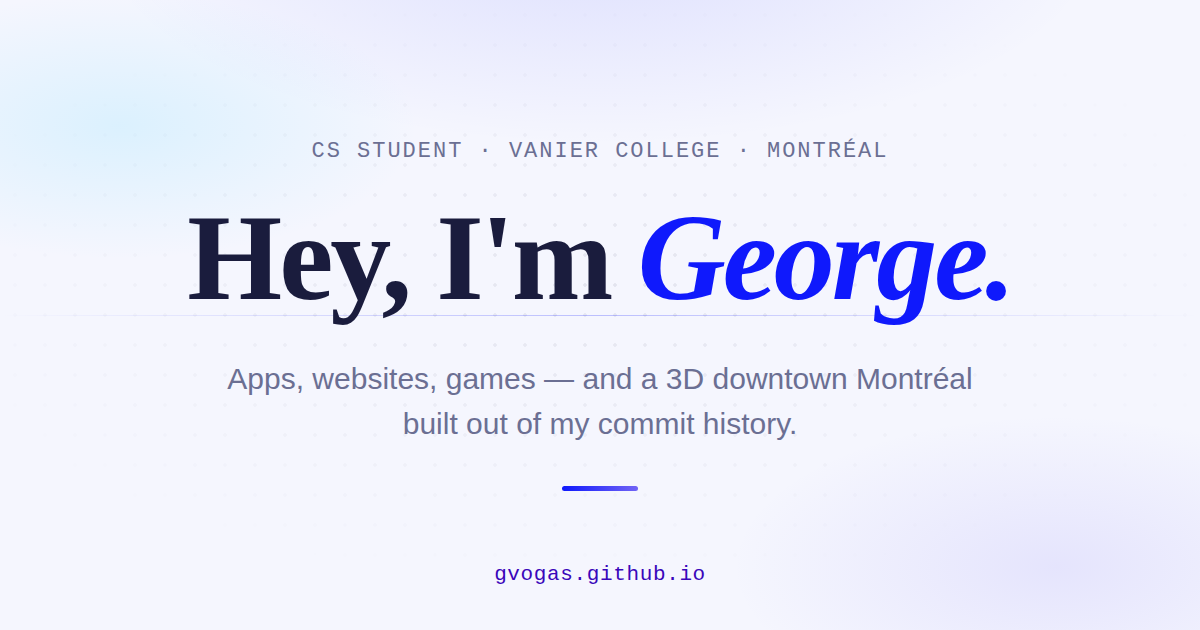
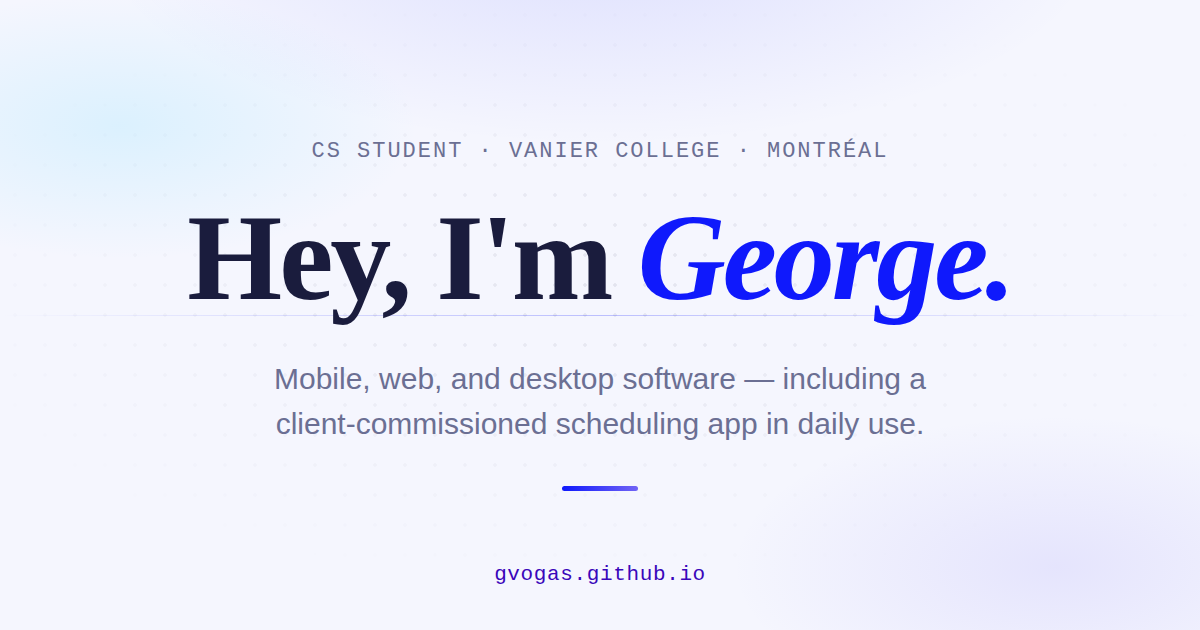
Adjust copy to a professional tone
Keep the plain first-person voice but remove the jokey asides; project
descriptions, the about section, and the share card now read factual
and career-appropriate.

Claude-Session: https://claude.ai/code/session_01LQZPvP3TcEDBEUJSvKnrY1

Changed region(s): [[0.185, 0.573, 0.8017, 0.6333], [0.2158, 0.6635, 0.7708, 0.6937]]

diff --git a/index.html b/index.html
@@ -4,7 +4,7 @@
   <meta charset="UTF-8" />
   <meta name="viewport" content="width=device-width, initial-scale=1.0, viewport-fit=cover" />
   <title>George Vogas — CS Student · Robotics & Hockey</title>
-  <meta name="description" content="Portfolio of George Vogas, a CS student at Vanier College in Montréal. Mobile apps, web platforms, desktop software, games — and a 3D commit skyline." />
+  <meta name="description" content="Portfolio of George Vogas, a CS student at Vanier College in Montréal — mobile apps, web platforms, desktop software, and games." />
   <link rel="canonical" href="https://gvogas.github.io/" />
   <link rel="icon" href="favicon.svg" type="image/svg+xml" />
   <link rel="apple-touch-icon" href="apple-touch-icon.png" />
@@ -16,7 +16,7 @@
   <meta property="og:url" content="https://gvogas.github.io/" />
   <meta property="og:site_name" content="George Vogas" />
   <meta property="og:title" content="George Vogas — CS Student · Robotics & Hockey" />
-  <meta property="og:description" content="Portfolio of George Vogas, a CS student at Vanier College in Montréal. Apps, websites, games — and a 3D Montréal skyline built from his repos." />
+  <meta property="og:description" content="Portfolio of George Vogas, a CS student at Vanier College in Montréal — mobile apps, web platforms, desktop software, and games." />
   <meta property="og:image" content="https://gvogas.github.io/assets/og-card.png" />
   <meta property="og:image:width" content="1200" />
   <meta property="og:image:height" content="630" />
@@ -117,8 +117,8 @@
         <p class="hero__eyebrow">CS Student · Vanier College · Montréal, QC</p>
         <h1 class="hero__name">Hey, I'm <span class="hero__name-accent">George.</span></h1>
         <p class="hero__tagline">
-          I like building things people actually use, like the scheduling app a client runs their business on.<br />
-          Also things nobody asked for, like the 3D commit skyline further down this page.
+          I build mobile, web, and desktop software, including a<br />
+          client-commissioned scheduling app in daily use.
         </p>
         <div class="hero__stats" id="github-stats-grid" aria-label="Live GitHub stats">
           <span data-stat="commits"><strong class="github-stats__value"><span class="github-stats__shimmer" aria-hidden="true">000</span></strong> Commits</span>
@@ -159,28 +159,27 @@
         <div class="about__grid">
           <div class="about__text reveal">
             <p>
-              I'm a CS student at Vanier College in Montréal. Most of what I know comes from
-              taking on projects slightly too big for me: a scheduling app a client uses every day,
-              a ticketing site my team deployed, a desktop POS system, a Unity game.
+              I'm a CS student at Vanier College in Montréal. I've learned primarily by building:
+              a scheduling app a client uses every day, a ticketing site my team deployed,
+              a desktop POS system, and a Unity game I contribute to.
             </p>
             <p>
-              Lately I've been spending my spare time on <strong>robotics</strong> — microcontrollers,
-              PID loops, and sensors that lie to you. The scheduling app is getting invoicing next,
-              so that's most of my evenings spoken for.
+              Outside of coursework I work on <strong>robotics</strong> — microcontrollers,
+              PID control loops, and sensor integration. I'm also extending the scheduling app
+              with Wave invoicing.
             </p>
             <p>
-              The rest of them go to <strong>hockey</strong>. I skate on weekends, watch the Habs,
-              and keep telling myself I'll build a shot-quality model instead of just arguing about
-              line combinations.
+              Away from the keyboard, I play <strong>hockey</strong> on weekends and follow the Habs.
+              I'm interested in hockey analytics — box scores, possession metrics, shot quality.
             </p>
           </div>
           <div class="about__callout reveal">
             <p class="about__callout-label">Right now</p>
             <ul class="about__callout-list">
-              <li>Finishing up at Vanier</li>
+              <li>Completing my studies at Vanier College</li>
               <li>Adding Wave invoicing to the scheduling app</li>
-              <li>Messing with microcontrollers and PID loops</li>
-              <li>Hoping the Habs make the playoffs</li>
+              <li>Working with microcontrollers and PID control</li>
+              <li>Open to internship opportunities</li>
             </ul>
           </div>
         </div>
@@ -302,7 +301,7 @@
               <span class="pill">CSS</span>
             </div>
             <p class="card__desc">
-              Hackathon project from MariHacks. Give it a topic (and your notes, if you have them) and it generates study material. There's also a plant pet that takes damage when you get questions wrong, because hackathons.
+              Hackathon project from MariHacks. Give it a topic — and optionally your notes or slides — and it generates study material, with a coin economy and a quiz-linked plant companion layered on top.
             </p>
             <ul class="card__bullets">
               <li>AI research + content agents generate structured notes, flashcards, and quiz questions at multiple difficulty levels</li>
@@ -336,7 +335,7 @@
               <span class="pill">JDK 24</span>
             </div>
             <p class="card__desc">
-              Final project for my programming patterns course: a JavaFX point-of-sale system where every pattern we covered had to actually run in the app.
+              Final project for my programming patterns course: a JavaFX point-of-sale system built around the design patterns covered in class.
             </p>
             <ul class="card__bullets">
               <li>Multi-screen JavaFX GUI: main menu, order flow, inventory management, sales analytics, and payment</li>
@@ -620,7 +619,7 @@
           <p class="contact__sub">Open to collaboration and internship opportunities</p>
           <h2 class="contact__heading">Always building something.</h2>
           <p class="contact__body">
-            If you're hiring interns, have a project in mind, or just want to argue about hockey, my LinkedIn is open.
+            If you're hiring interns or have a project in mind, the best way to reach me is LinkedIn.
           </p>
           <div class="contact__links">
             <a href="https://www.linkedin.com/in/george-vogas-b13944338/" target="_blank" rel="noopener noreferrer" class="btn btn--primary">

diff --git a/README.md b/README.md
@@ -7,14 +7,14 @@
   [![Devpost](https://img.shields.io/badge/Devpost-003E54?style=for-the-badge&logo=devpost&logoColor=white)](https://devpost.com/Terminator320)
   [![Profile Views](https://komarev.com/ghpvc/?username=gvogas&style=for-the-badge&color=0F19FC&label=PROFILE+VIEWS)](https://github.com/gvogas)
 
-  Portfolio site: **[gvogas.github.io](https://gvogas.github.io/)** (fair warning: it has a 3D downtown Montréal built out of my commit history)
+  Portfolio site: **[gvogas.github.io](https://gvogas.github.io/)** — includes an interactive 3D visualization of my repositories
 </div>
 
 ---
 
 ## About Me
 
-I'm a CS student at Vanier College in Montréal. Most of what I know comes from taking on projects slightly too big for me: a scheduling app a client uses every day, a ticketing site my team deployed, a desktop POS system, and a Unity game. Outside of class it's mostly robotics and hockey.
+I'm a CS student at Vanier College in Montréal. I've learned primarily by building: a scheduling app a client uses every day, a ticketing site my team deployed, a desktop POS system, and a Unity game I contribute to. Outside of coursework, my main interests are robotics and hockey analytics.
 
 ---
 
@@ -98,7 +98,7 @@ Event ticketing site built with two classmates. Users buy tickets for concerts, 
 <details>
 <summary>What it does</summary>
 
-Hackathon project from MariHacks. Give it a topic (and your notes, PDFs, or slides if you have them) and it generates study material. There's also a coin shop, a plant pet that takes damage when you get questions wrong, and Spotify playback, because hackathons.
+Hackathon project from MariHacks. Give it a topic — and optionally your notes, PDFs, or slides — and it generates study material, with a coin economy, a quiz-linked plant companion, and optional Spotify playback layered on top.
 
 - AI research agent (Tavily) + content agent (Groq/LLaMA 3.3) generate structured notes, 1–30 flashcards, and 1–20 multiple-choice quiz questions at beginner / intermediate / advanced difficulty
 - Personalized 1–30 day study plan with priority tagging and extra time automatically allocated to weak areas from your latest quiz
@@ -122,7 +122,7 @@ Hackathon project from MariHacks. Give it a topic (and your notes, PDFs, or slid
 <details>
 <summary>What it does</summary>
 
-Final project for my programming patterns course: a JavaFX point-of-sale system where every pattern we covered had to actually run in the app.
+Final project for my programming patterns course: a JavaFX point-of-sale system built around the design patterns covered in class.
 
 - Multi-screen JavaFX GUI: main menu, order flow, inventory management, sales analytics, and payment
 - **Factory Method** pattern for payment processing — Cash, Debit, and Credit each implemented as concrete factories
